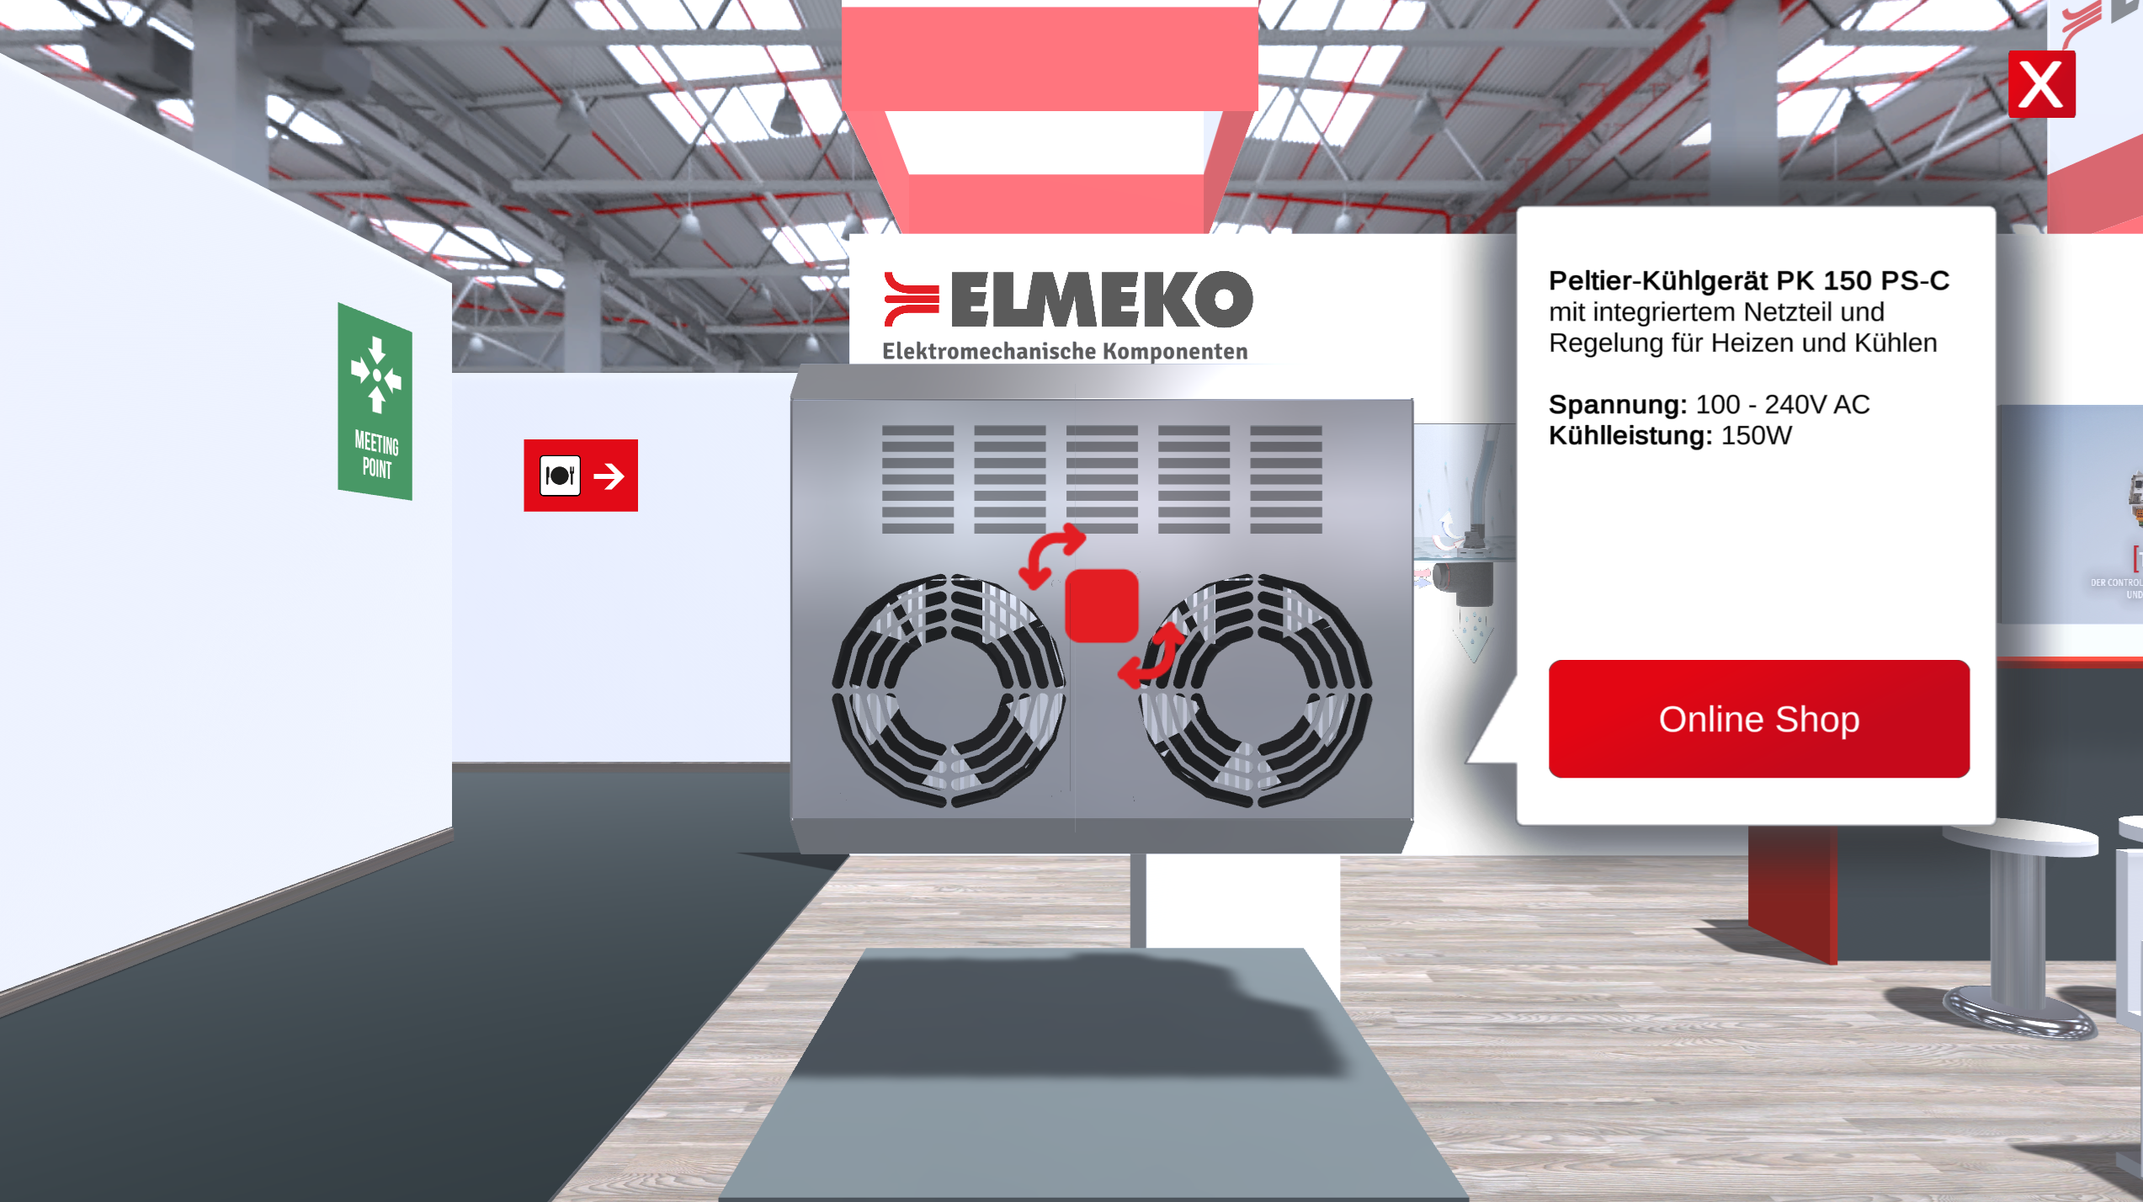
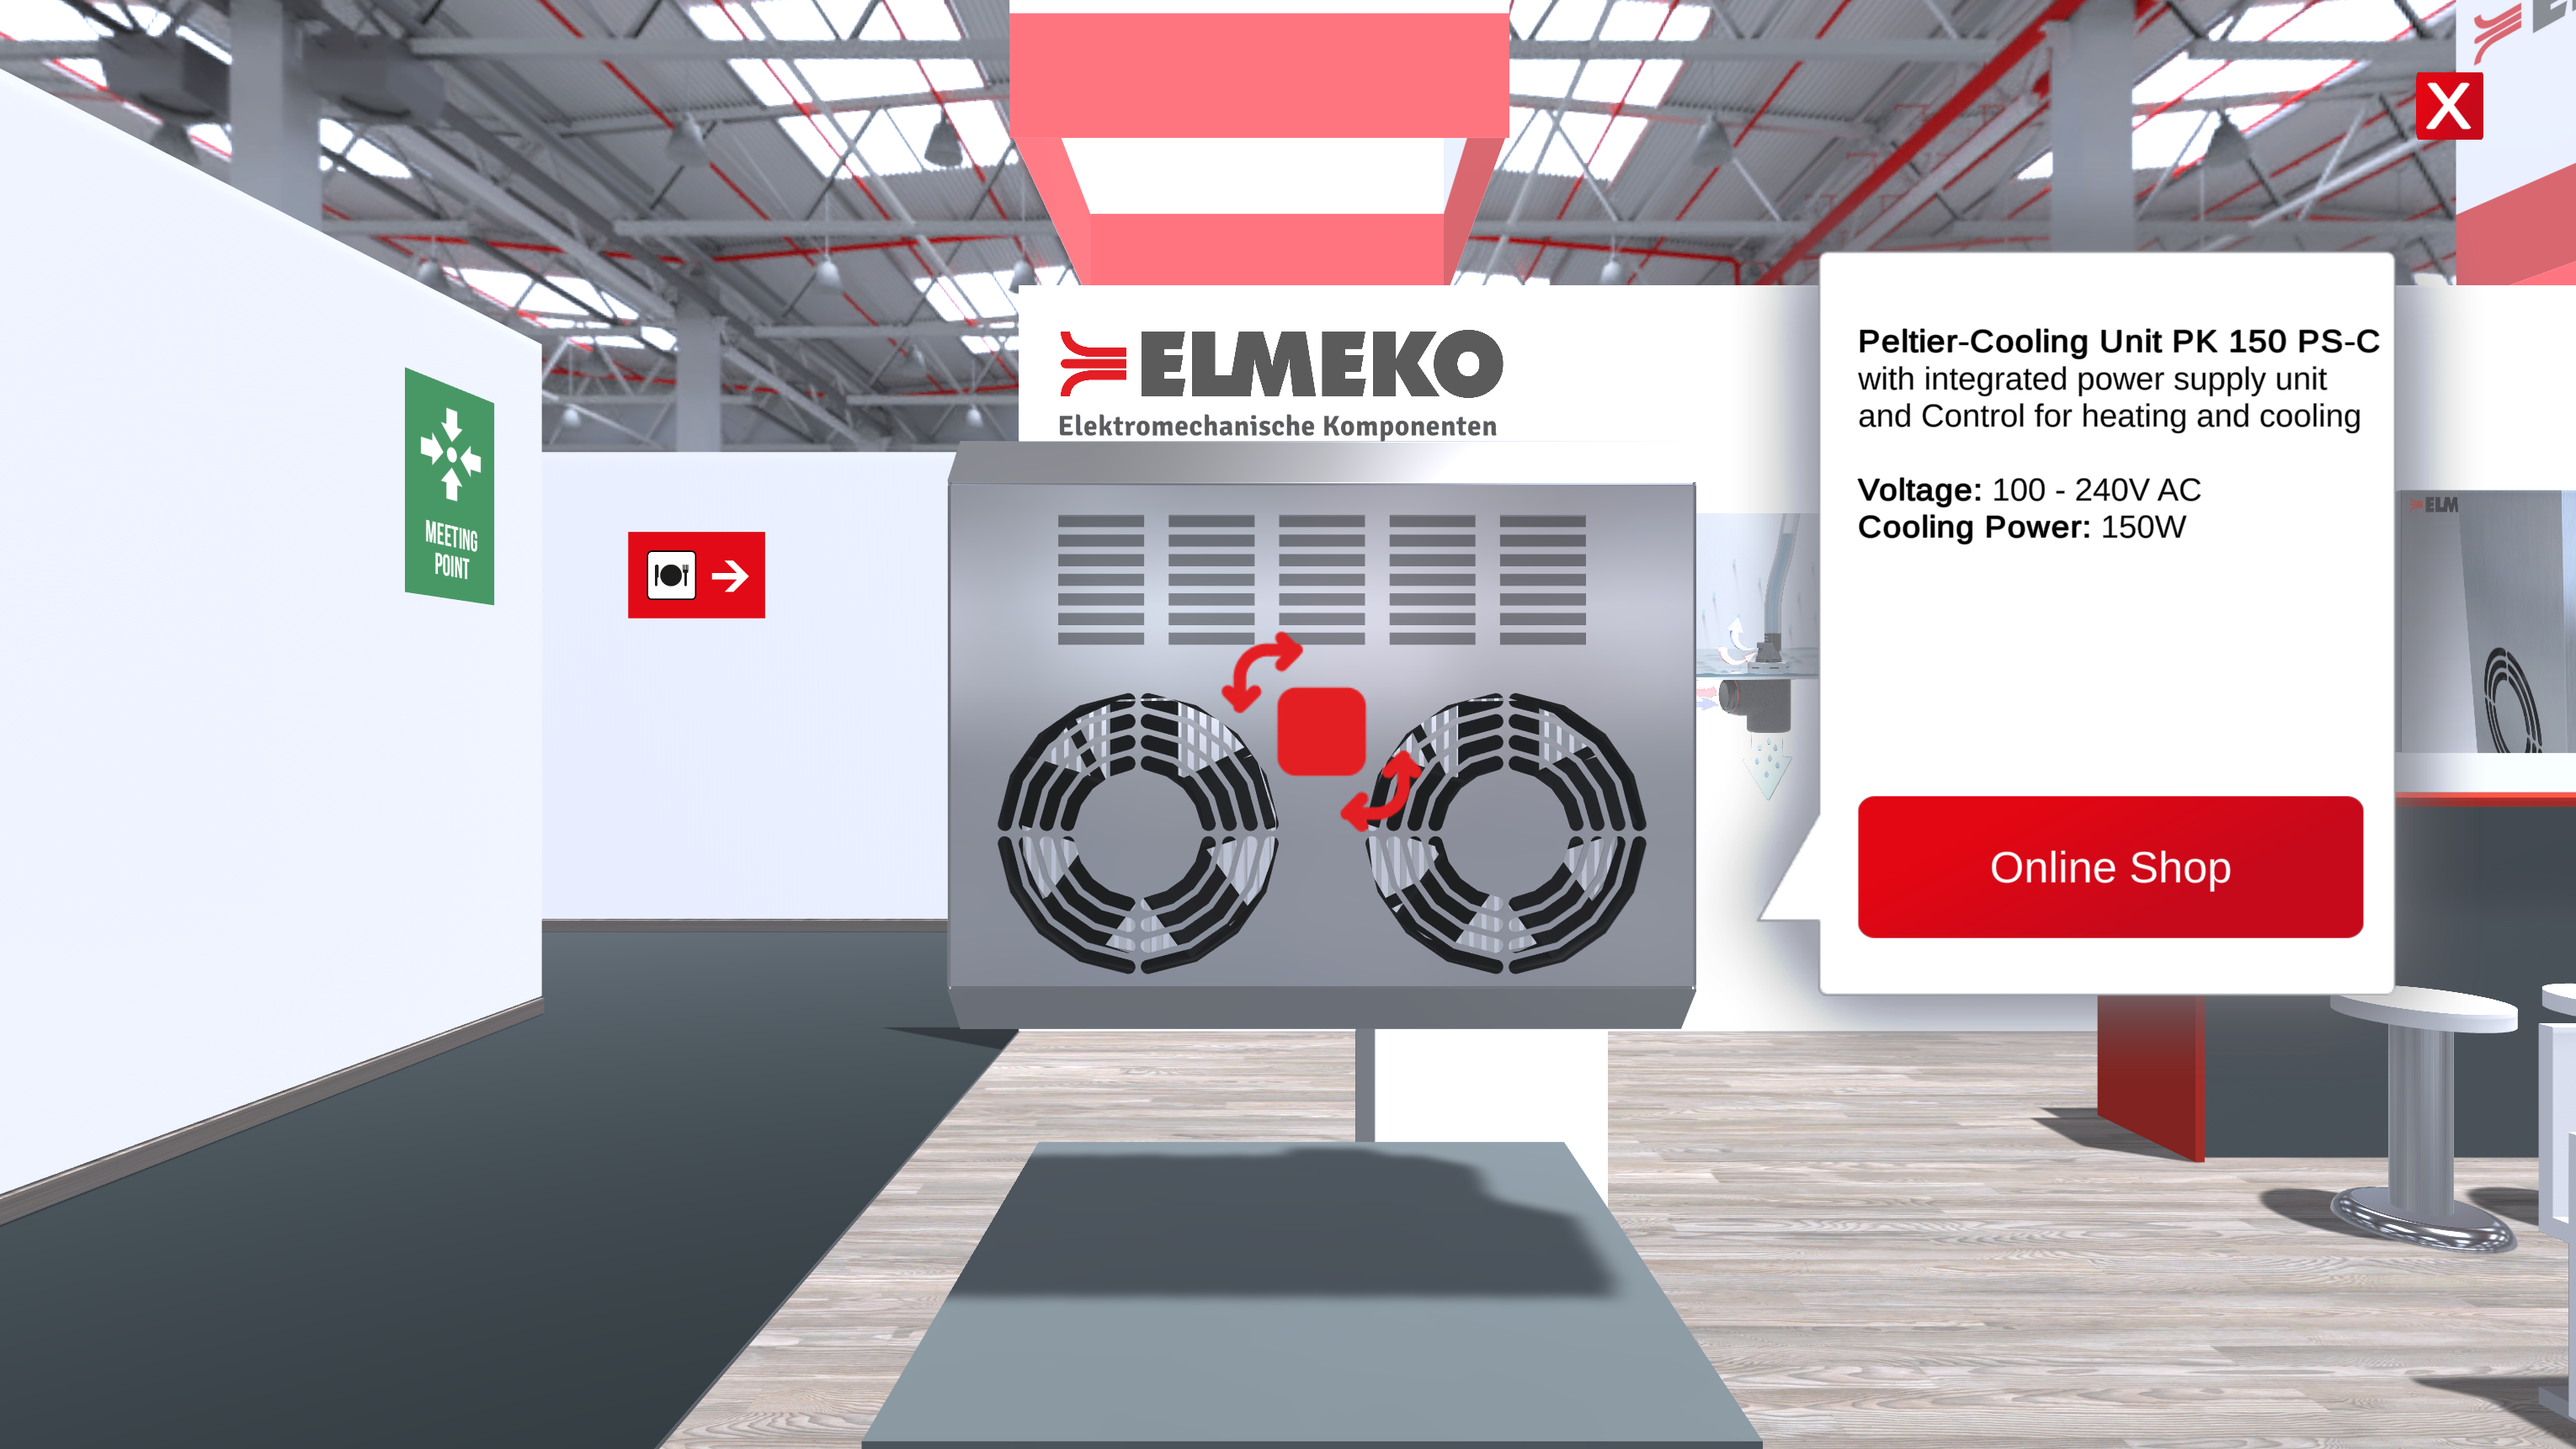
Added images and updated readme

diff --git a/README.md b/README.md
@@ -1,1 +1,82 @@
-# elmeko_virtual_exhibition
+# ELMEKO Virtual Exhibition
+
+Since it was difficult or even impossible to visit trade fairs in times of the corona virus, I developed a virtual trade fair stand for the [website of the ELMEKO GmbH & Co. KG company](https://www.elmeko.de/en/home).
+
+    Key aspects:
+
+        - Made with Unity-Engine
+        - Almost all content can be exchanged on the server. (Texts, video, images)
+        - Shows current products and links to various pages of the ELMEKO website
+
+[Visit the virtual trade fair](https://www.elmeko.de/virtueller_messestand/)
+
+[<img src="images/exhibition.png" width="700px" alt="Image of the trade fair stand">](https://www.elmeko.de/virtueller_messestand/)
+
+# Content
+
+## Overview
+
+This view provides an overview of the entire exhibition stand. All interactive objects are marked with an exclamation mark.
+
+<img src="images/transition.gif" width="700px" alt="GIF of transition">
+
+Transition to the [cooling unit PK 150](#cooling-unit-pk-150).
+
+## Cooling unit PK 150
+
+The cooling unit can be rotated with the mouse or finger. On the right-hand side is the most important information and a button that links to the product in the online shop.
+
+[<img src="images/pk150.gif" width="700px" alt="Image of the PK 150">](https://www.elmeko.de/en/details/peltier-kuhlgerat-pk-150)
+
+## Out-Fit
+
+This object can also be rotated and the ‘Details’ button leads to a detailed product presentation, which can also be called up separately on the website of ELMEKO.
+This presentation was also developey by me with the Unity-Engine.
+
+[Visit the Out-Fit presentation](https://www.elmeko.de/Product_Presentation_OutFit/)
+
+[<img src="images/outfit.png" width="700px" alt="Image of the Out-Fit">](https://www.elmeko.de/Product_Presentation_OutFit/)
+
+## DeltaT
+
+DeltaT is software for determining the right cooling unit or heater for the enclosure.
+A click on the laptop leads to this programme.
+
+[Visit DeltaT](https://www.elmeko.de/en/service/calculation-software/)
+
+[<img src="images/deltat.png" width="700px" alt="Image of DeltaT">](https://www.elmeko.de/en/service/calculation-software/)
+
+## Light Selection
+
+The Light Selector was another tool on the ELMEKO website to find suitable lights for the control cabinet.
+However, this tool is no longer available.
+
+<img src="images/lightfinder.png" width="700px" alt="Image of Light Selection">
+
+## News
+
+The latest news is displayed on the wall. A click on this leads to the [news page of the ELMEKO homepage](https://www.elmeko.de/en/news/show-all/).
+
+<img src="images/outfitwall.png" width="700px" alt="Image of the News Wall">
+
+## Video
+
+A video can be played and paused with one click. This video can be exchanged on the server.
+
+<img src="images/video.png" width="700px" alt="Image of Video Player">
+
+## Stands
+
+The three stands each link to one of the three major categories of the ELMEKO shop.
+[Air conditioning](https://www.elmeko.de/en/products/schaltschrank-klimatisierung/), [Lightning](https://www.elmeko.de/en/products/schaltschrank-beleuchtung/) and [Accessories](https://www.elmeko.de/en/products/schaltschrank-zubehor/.)
+
+<img src="images/stand.png" width="700px" alt="Image of one of the stands">
+
+## Contact
+
+Here you will find links to the various social media platforms and the [contact form](https://www.elmeko.de/en/contact/contact-form) 
+
+<img src="images/contact.png" width="700px" alt="Image of the contact area">
+
+
+
